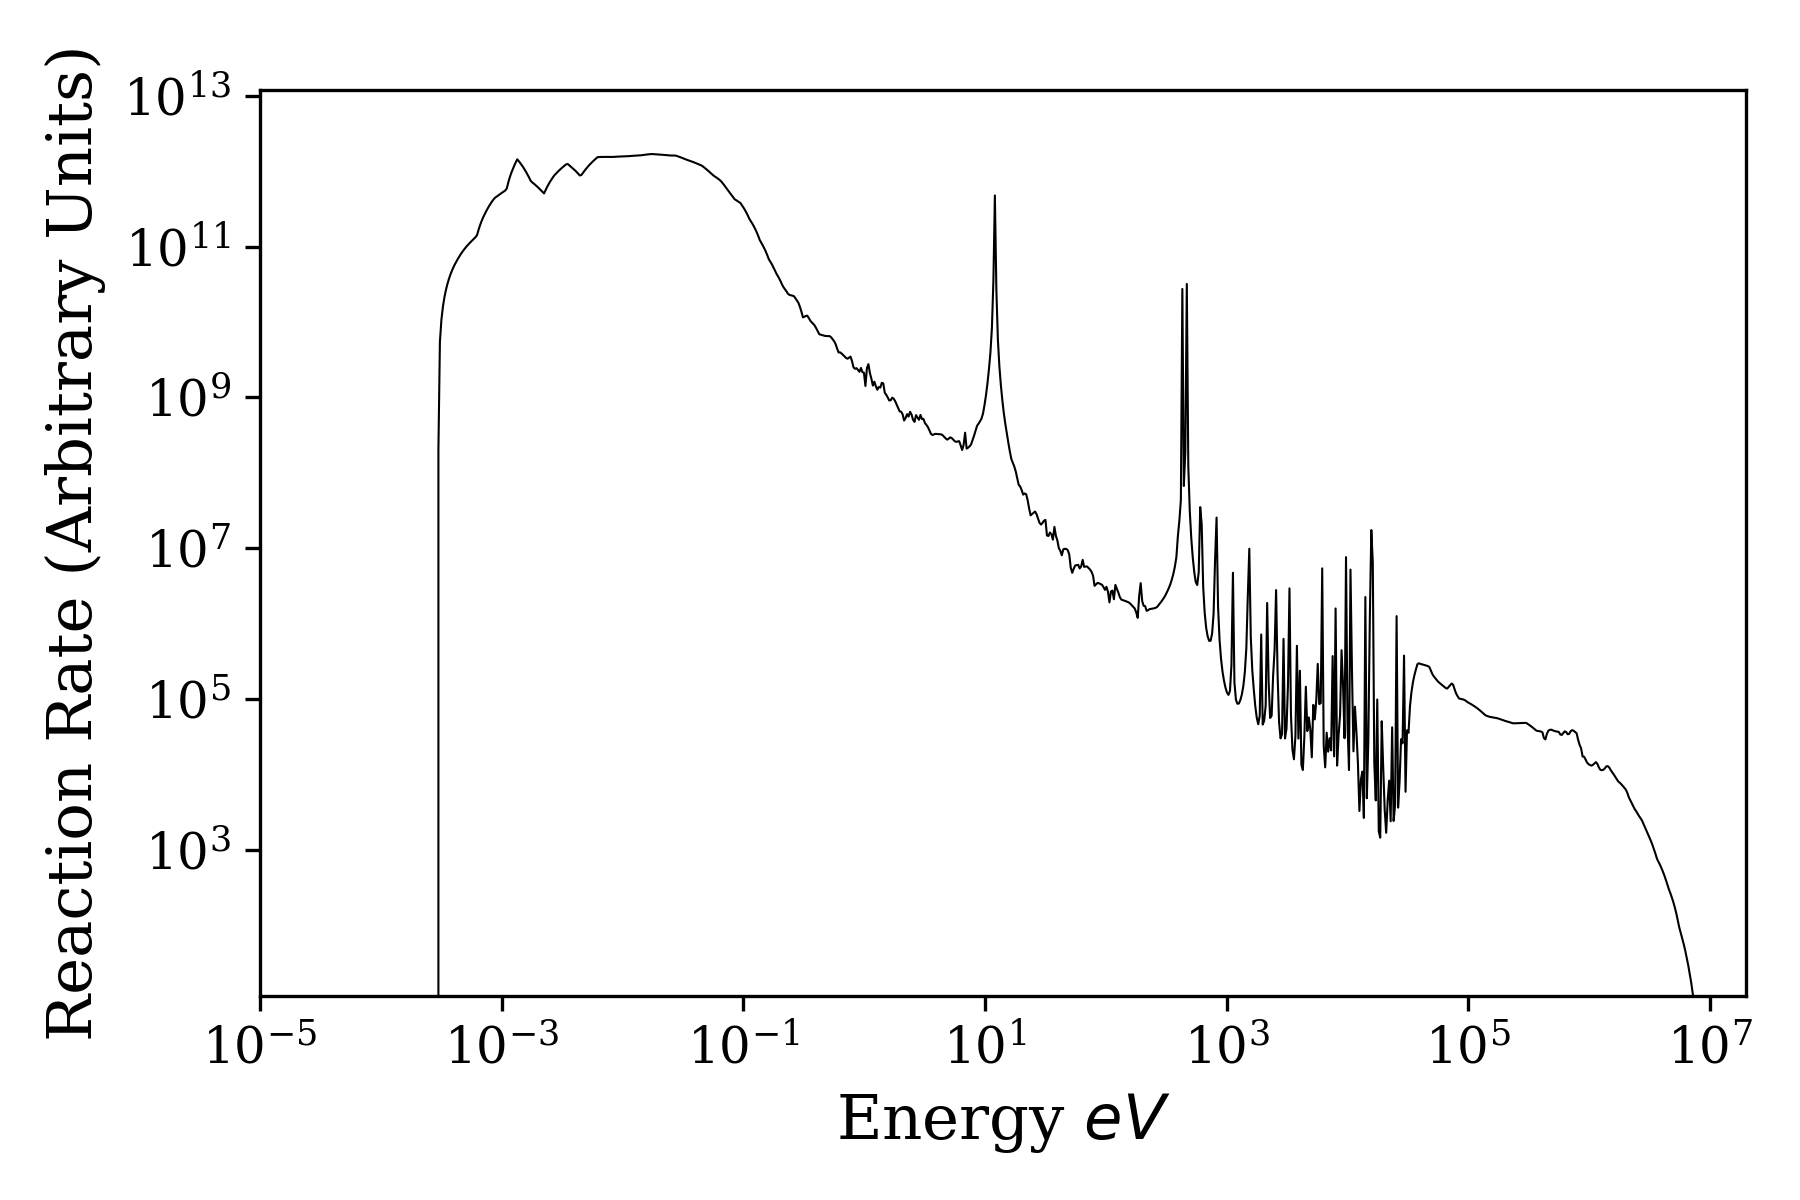
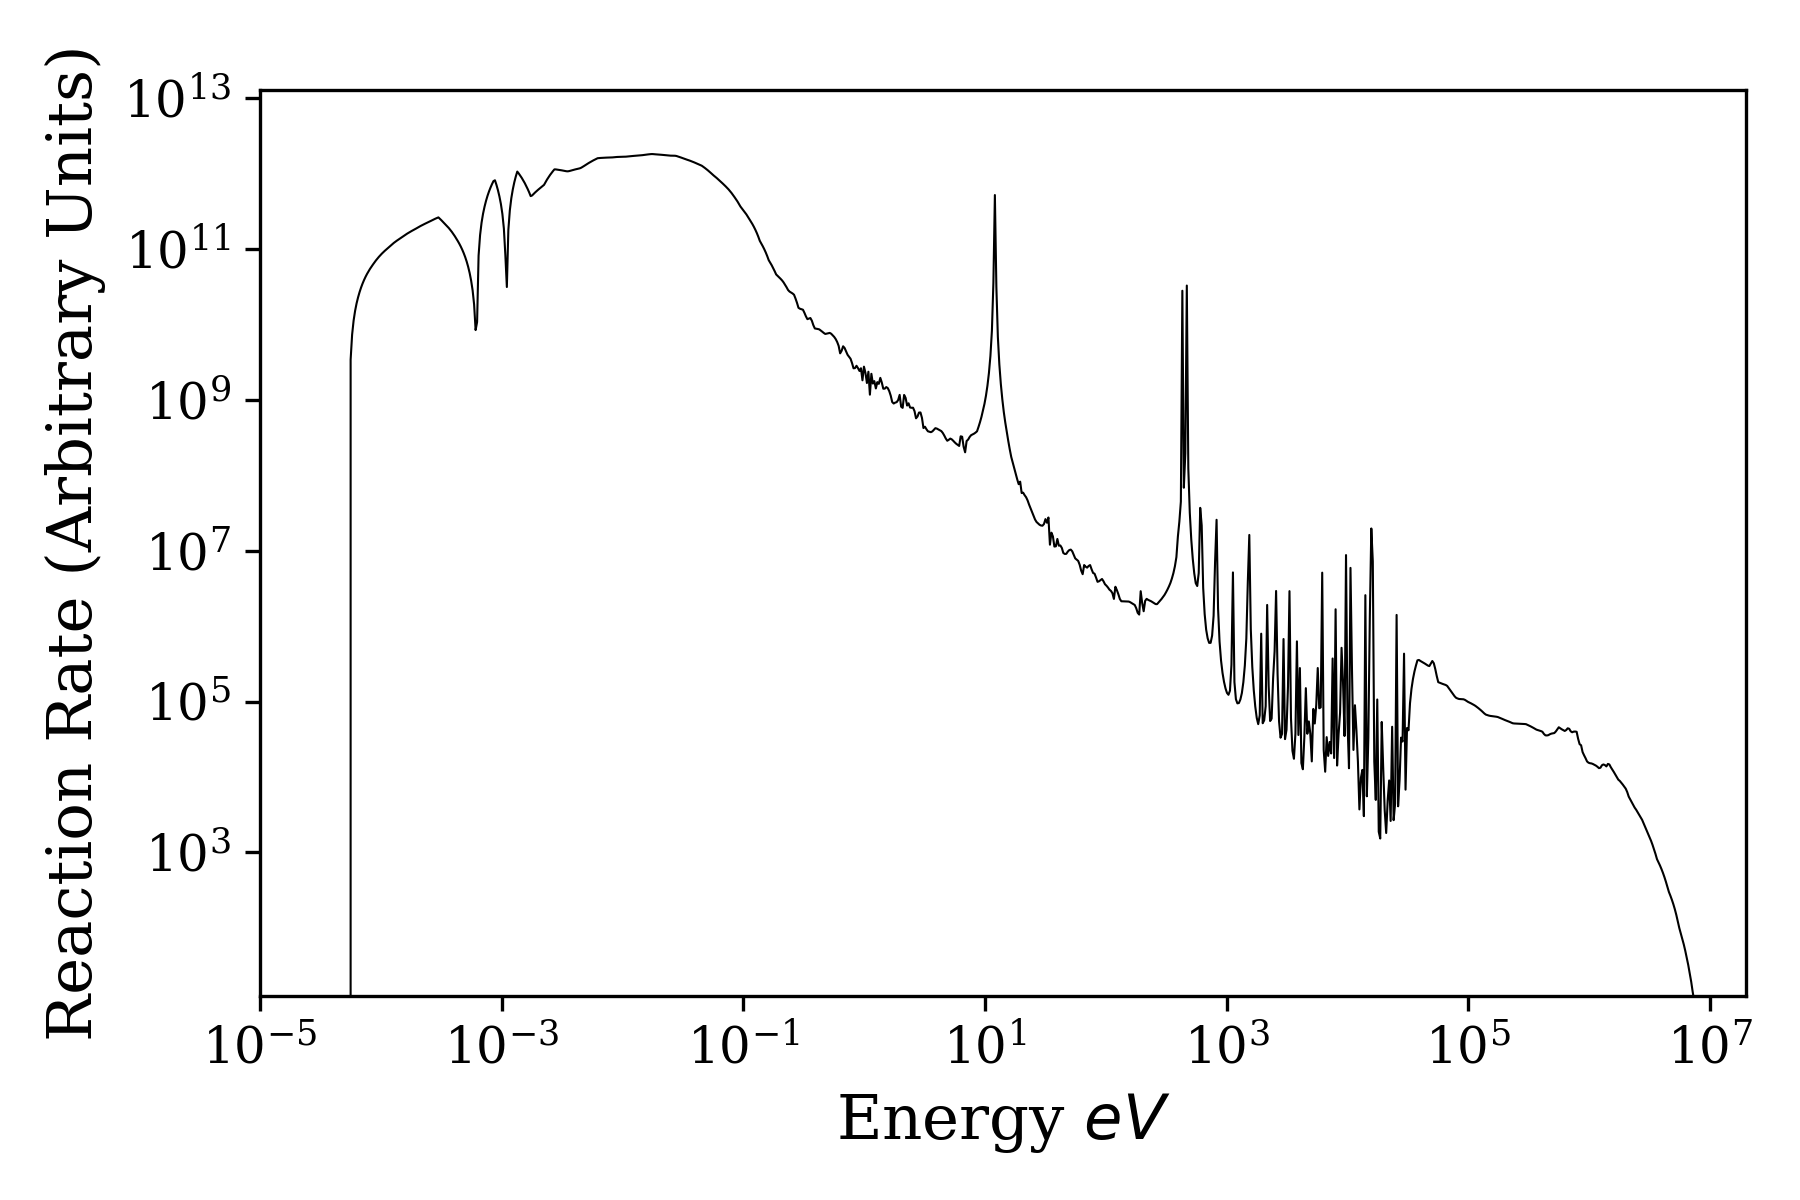
changes

diff --git a/source/cross_sections.py b/source/cross_sections.py
@@ -69,7 +69,7 @@ Mg['reactions']['n,p'] = {}
 f, r = extract('12-Mg-24(n,p)')
 Mg['reactions']['n,p']['func'] = f
 Mg['reactions']['n,p']['region'] = r
-Mg['reactions']['n,p']['roi'] = 6.4269e+06,1.1257e+06  # computed
+Mg['reactions']['n,p']['roi'] = 6.4269e+06,1e+07  # initial guess
 Mg['reactions']['n,p']['roi_cd'] = r  # initial guess
 Mg['reactions']['n,p']['halflife'] = 14.9590 * 60 * 60 # s
 Mg['reactions']['n,p']['label'] = r'($n,p$)'
@@ -150,7 +150,7 @@ Sc['reactions']['n,gamma'] = {}
 f, r = extract('21-Sc-45(n,&gamma;)')
 Sc['reactions']['n,gamma']['func'] = f
 Sc['reactions']['n,gamma']['region'] = r
-Sc['reactions']['n,gamma']['roi'] = 2.7970e-03, 2.7942e-01 # computed
+Sc['reactions']['n,gamma']['roi'] = 6.6594e-03, 2.7942e-01 # initial guess
 Sc['reactions']['n,gamma']['roi_cd'] = r # initial guess
 Sc['reactions']['n,gamma']['halflife'] = 43.72 *60 * 60  # s
 Sc['reactions']['n,gamma']['label'] = r'($n,\gamma$)'
@@ -169,7 +169,7 @@ Ti['reactions']['n,p'] = {}
 f, r = extract('22-Ti-48(n,p)')
 Ti['reactions']['n,p']['func'] = f
 Ti['reactions']['n,p']['region'] = r
-Ti['reactions']['n,p']['roi'] = 5.6369e+06, 1.1541e+07 # computed
+Ti['reactions']['n,p']['roi'] = 4.6369e+06, 1e+07 # initial guess
 Ti['reactions']['n,p']['roi_cd'] = r  # initial guess
 Ti['reactions']['n,p']['halflife'] = 43.7 * 60 * 60 #s
 Ti['reactions']['n,p']['label'] = r'($n,p$)'
@@ -208,7 +208,7 @@ Mn['reactions']['n,gamma'] = {}
 f, r = extract('25-Mn-55(n,&gamma;)')
 Mn['reactions']['n,gamma']['func'] = f
 Mn['reactions']['n,gamma']['region'] = r
-Mn['reactions']['n,gamma']['roi'] = 2.9364e-03, 2.3816e+01 # computed
+Mn['reactions']['n,gamma']['roi'] = 1e-03, 1e-01 # computed
 Mn['reactions']['n,gamma']['roi_cd'] = r # initial guess
 Mn['reactions']['n,gamma']['halflife'] = 2.5789 *60 * 60  # s
 Mn['reactions']['n,gamma']['label'] = r'($n,\gamma$)'
@@ -226,7 +226,7 @@ Fe['reactions']['n,p'] = {}
 f, r = extract('26-Fe-56(n,p)')
 Fe['reactions']['n,p']['func'] = f
 Fe['reactions']['n,p']['region'] = r
-Fe['reactions']['n,p']['roi'] = 7.4169e+06,1.1013e+07 # computed
+Fe['reactions']['n,p']['roi'] = 1e+06,1e+07 # initial guess
 Fe['reactions']['n,p']['roi_cd'] = r  # initial guess
 Fe['reactions']['n,p']['halflife'] = 2.5789 * 60 * 60 #s
 Fe['reactions']['n,p']['label'] = r'($n,p$)'
@@ -238,7 +238,7 @@ Fe['reactions']['n,gamma'] = {}
 f, r = extract('26-Fe-58(n,&gamma;)')
 Fe['reactions']['n,gamma']['func'] = f
 Fe['reactions']['n,gamma']['region'] = r
-Fe['reactions']['n,gamma']['roi'] = 2.9877e-03, 3.5809e+02 # computed
+Fe['reactions']['n,gamma']['roi'] = 2.9877e-04, 3.5809 # initial guess
 Fe['reactions']['n,gamma']['roi_cd'] = r # initial guess
 Fe['reactions']['n,gamma']['halflife'] = 44.6 * 24 * 60 * 60 # s
 Fe['reactions']['n,gamma']['label'] = r'($n,\gamma$)'
@@ -258,7 +258,7 @@ Ni['reactions']['n,p'] = {}
 f, r = extract('28-Ni-58(n,p)')
 Ni['reactions']['n,p']['func'] = f
 Ni['reactions']['n,p']['region'] = r
-Ni['reactions']['n,p']['roi'] = 1.9656e+06, 7.4169e+06 # computed
+Ni['reactions']['n,p']['roi'] = 1.9380e+06, 1e+07 # initial guess
 Ni['reactions']['n,p']['roi_cd'] = r  # initial guess
 Ni['reactions']['n,p']['halflife'] = 70.86 * 24 * 60 * 60 #s
 Ni['reactions']['n,p']['label'] = r'($n,p$)'
@@ -277,7 +277,7 @@ Cu['reactions']['n,gamma'] = {}
 f, r = extract('29-Cu-63(n,&gamma;)')
 Cu['reactions']['n,gamma']['func'] = f
 Cu['reactions']['n,gamma']['region'] = r
-Cu['reactions']['n,gamma']['roi'] = 2.9583e-03, 5.7752 # computed
+Cu['reactions']['n,gamma']['roi'] = 10e-3, 5.7752e-1 # initial guess
 Cu['reactions']['n,gamma']['roi_cd'] = r # initial guess
 Cu['reactions']['n,gamma']['halflife'] = 12.70 * 60 * 60 # s
 Cu['reactions']['n,gamma']['label'] = r'($n,\gamma$)'
@@ -295,7 +295,7 @@ Zn['reactions']['n,p'] = {}
 f, r = extract('30-Zn-64(n,p)')
 Zn['reactions']['n,p']['func'] = f
 Zn['reactions']['n,p']['region'] = r
-Zn['reactions']['n,p']['roi'] = 2.4856e+06, 7.6116e+06 # computed
+Zn['reactions']['n,p']['roi'] = 1e+05, 1e+06 # initial guess
 Zn['reactions']['n,p']['roi_cd'] = r  # initial guess
 Zn['reactions']['n,p']['halflife'] = 12.70 * 60 * 60 # s
 Zn['reactions']['n,p']['label'] = r'($n,p$)'
@@ -313,7 +313,7 @@ Zr['reactions']['n,2n'] = {}
 f, r = extract('40-Zr-90(n,2n)')
 Zr['reactions']['n,2n']['func'] = f
 Zr['reactions']['n,2n']['region'] = r
-Zr['reactions']['n,2n']['roi'] = 1.2300e+07, 1.7072e+07 # computed
+Zr['reactions']['n,2n']['roi'] = 1.2300e+06, 1.5072e+07 # initial guess
 Zr['reactions']['n,2n']['roi_cd'] = r # initial guess
 Zr['reactions']['n,2n']['halflife'] = 78.41 *60 * 60  # s
 Zr['reactions']['n,2n']['label'] = r'($n,2n$)'
@@ -424,7 +424,7 @@ Eu['reactions']['n,gamma'] = {}
 f, r = extract('63-Eu-151(n,&gamma;)')
 Eu['reactions']['n,gamma']['func'] = f
 Eu['reactions']['n,gamma']['region'] = r
-Eu['reactions']['n,gamma']['roi'] = 5.1612e-03,4.5379e-01 # computed
+Eu['reactions']['n,gamma']['roi'] = 1e-03,1e-01 # initial guess
 Eu['reactions']['n,gamma']['roi_cd'] = r # initial guess
 Eu['reactions']['n,gamma']['halflife'] = 13.537 * 365 * 24 * 60 * 60  # s
 Eu['reactions']['n,gamma']['label'] = r'($n,\gamma$)'
@@ -442,7 +442,7 @@ Dy['reactions']['n,gamma'] = {}
 f, r = extract('66-Dy-164(n,&gamma;)')
 Dy['reactions']['n,gamma']['func'] = f
 Dy['reactions']['n,gamma']['region'] = r
-Dy['reactions']['n,gamma']['roi'] = 2.5806e-03, 1.6797e-01 # computed
+Dy['reactions']['n,gamma']['roi'] = 6.3127e-03, 1e-01 # initial guess
 Dy['reactions']['n,gamma']['roi_cd'] = r # initial guess
 Dy['reactions']['n,gamma']['halflife'] =  	2.334 * 60 * 60  # s
 Dy['reactions']['n,gamma']['label'] = r'($n,\gamma$)'
@@ -460,7 +460,7 @@ Lu['reactions']['n,gamma'] = {}
 f, r = extract('71-Lu-176(n,&gamma;)')
 Lu['reactions']['n,gamma']['func'] = f
 Lu['reactions']['n,gamma']['region'] = r
-Lu['reactions']['n,gamma']['roi'] = 9.4803e-03,1.7852e-01 # initial guess
+Lu['reactions']['n,gamma']['roi'] = 5e-03,1e-01 # initial guess
 Lu['reactions']['n,gamma']['roi_cd'] = r # initial guess
 Lu['reactions']['n,gamma']['halflife'] = 6.6475 * 24 * 60 * 60  # s
 Lu['reactions']['n,gamma']['label'] = r'($n,\gamma$)'
@@ -478,7 +478,7 @@ Ir['reactions']['n,gamma'] = {}
 f, r = extract('71-Lu-176(n,&gamma;)')
 Ir['reactions']['n,gamma']['func'] = f
 Ir['reactions']['n,gamma']['region'] = r
-Ir['reactions']['n,gamma']['roi'] = 9.4803e-03,1.7852e-01 # computed
+Ir['reactions']['n,gamma']['roi'] = 1e-03,1e-01 # initial guess
 Ir['reactions']['n,gamma']['roi_cd'] = r # initial guess
 Ir['reactions']['n,gamma']['halflife'] = 73.827 * 24 * 60 * 60  # s
 Ir['reactions']['n,gamma']['label'] = r'($n,\gamma$)'

diff --git a/source/roi.py b/source/roi.py
@@ -156,7 +156,7 @@ if test:
 
 
 # run full simulation using each foil
-run_all = True
+run_all = False
 # gold
 if False or run_all:
     for xs in foils['Au']['reactions'].values():
@@ -222,7 +222,7 @@ if True or run_all:
         print('Right: {:6.4e}'.format(right))
 
 # titanium
-if False or run_all:
+if True or run_all:
     for xs in foils['Ti']['reactions'].values():
         print('\n' + xs['plotname'])
         left, right = roi(xs, phi, no_cd, True, True)
@@ -230,7 +230,7 @@ if False or run_all:
         print('Right: {:6.4e}'.format(right))
         
 # zinc
-if False or run_all:
+if True or run_all:
     for xs in foils['Zn']['reactions'].values():
         print('\n' + xs['plotname'])
         left, right = roi(xs, phi, no_cd, True, True)
@@ -238,7 +238,7 @@ if False or run_all:
         print('Right: {:6.4e}'.format(right))
 
 # zirconium
-if False or run_all:
+if True or run_all:
     for xs in foils['Zr']['reactions'].values():
         print('\n' + xs['plotname'])
         left, right = roi(xs, phi, no_cd, True, True)
@@ -246,7 +246,7 @@ if False or run_all:
         print('Right: {:6.4e}'.format(right))
 
 # iron
-if False or run_all:
+if True or run_all:
     for xs in foils['Fe']['reactions'].values():
         print('\n' + xs['plotname'])
         left, right = roi(xs, phi, no_cd, True, True)
@@ -254,7 +254,7 @@ if False or run_all:
         print('Right: {:6.4e}'.format(right))
 
 # scandium
-if False or run_all:
+if True or run_all:
     for xs in foils['Sc']['reactions'].values():
         print('\n' + xs['plotname'])
         left, right = roi(xs, phi, no_cd, True, True)
@@ -262,7 +262,7 @@ if False or run_all:
         print('Right: {:6.4e}'.format(right))
 
 # nickel
-if False or run_all:
+if True or run_all:
     for xs in foils['Ni']['reactions'].values():
         print('\n' + xs['plotname'])
         left, right = roi(xs, phi, no_cd, True, True)
@@ -270,16 +270,15 @@ if False or run_all:
         print('Right: {:6.4e}'.format(right))
 
 # magnesium
-if False or run_all:
+if True or run_all:
     for xs in foils['Mg']['reactions'].values():
         print('\n' + xs['plotname'])
         left, right = roi(xs, phi, no_cd, True, True)
         print('Left: {:6.4e}'.format(left))
         print('Right: {:6.4e}'.format(right))
-
 '''
 # tungsten
-if False or run_all:
+if True or run_all:
     for xs in foils['W']['reactions'].values():
         print('\n' + xs['plotname'])
         left, right = roi(xs, phi, no_cd, True, True)
@@ -287,7 +286,7 @@ if False or run_all:
         print('Right: {:6.4e}'.format(right))
 '''
 # magnanese
-if False or run_all:
+if True or run_all:
     for xs in foils['Mn']['reactions'].values():
         print('\n' + xs['plotname'])
         left, right = roi(xs, phi, no_cd, True, True)
@@ -295,7 +294,7 @@ if False or run_all:
         print('Right: {:6.4e}'.format(right))
         
 # molybdenum
-if False or run_all:
+if True or run_all:
     for xs in foils['Mo']['reactions'].values():
         print('\n' + xs['plotname'])
         left, right = roi(xs, phi, no_cd, True, True)
@@ -303,7 +302,7 @@ if False or run_all:
         print('Right: {:6.4e}'.format(right))
 
 # europium
-if False or run_all:
+if True or run_all:
     for xs in foils['Eu']['reactions'].values():
         print('\n' + xs['plotname'])
         left, right = roi(xs, phi, no_cd, True, True)
@@ -311,7 +310,7 @@ if False or run_all:
         print('Right: {:6.4e}'.format(right))
 
 # iridium
-if False or run_all:
+if True or run_all:
     for xs in foils['Ir']['reactions'].values():
         print('\n' + xs['plotname'])
         left, right = roi(xs, phi, no_cd, True, True)
@@ -319,7 +318,7 @@ if False or run_all:
         print('Right: {:6.4e}'.format(right))
 
 # dyspropium
-if False or run_all:
+if True or run_all:
     for xs in foils['Dy']['reactions'].values():
         print('\n' + xs['plotname'])
         left, right = roi(xs, phi, no_cd, True, True)
@@ -327,7 +326,7 @@ if False or run_all:
         print('Right: {:6.4e}'.format(right))
 
 # lutetium
-if False or run_all:
+if True or run_all:
     for xs in foils['Lu']['reactions'].values():
         print('\n' + xs['plotname'])
         left, right = roi(xs, phi, no_cd, True, True)
@@ -335,7 +334,7 @@ if False or run_all:
         print('Right: {:6.4e}'.format(right))
         
 # chromium
-if False or run_all:
+if True or run_all:
     for xs in foils['Cr']['reactions'].values():
         print('\n' + xs['plotname'])
         left, right = roi(xs, phi, no_cd, True, True)
@@ -343,7 +342,7 @@ if False or run_all:
         print('Right: {:6.4e}'.format(right))
         
 # calcium
-if False or run_all:
+if True or run_all:
     for xs in foils['Ca']['reactions'].values():
         print('\n' + xs['plotname'])
         left, right = roi(xs, phi, no_cd, True, True)

diff --git a/source/amalgamated_plot.py b/source/amalgamated_plot.py
@@ -71,7 +71,7 @@ colors = ['green', 'gold', 'red', 'blue', 'indigo', 'fuchsia', 'black',
 linestyles = [':', '--', '-', ':', '-.', ':','--', '-',':','-.','-',':','--',
               '-.',':','--','-.']
 heights = np.array([1e-7, 1e-8, 1e-4, 1e-3, 1e-9, 1e-10,1e-2,1e-1,1e-5,1,
-                    1.5,10,70,100,10,1.5e-1,1e-11,1e-12]) * powerscaling
+                    1.5,10,70,100,10,1.5e-1,1e-11,1e-12])
 
 for i, reaction in enumerate(reactions):
     # region
